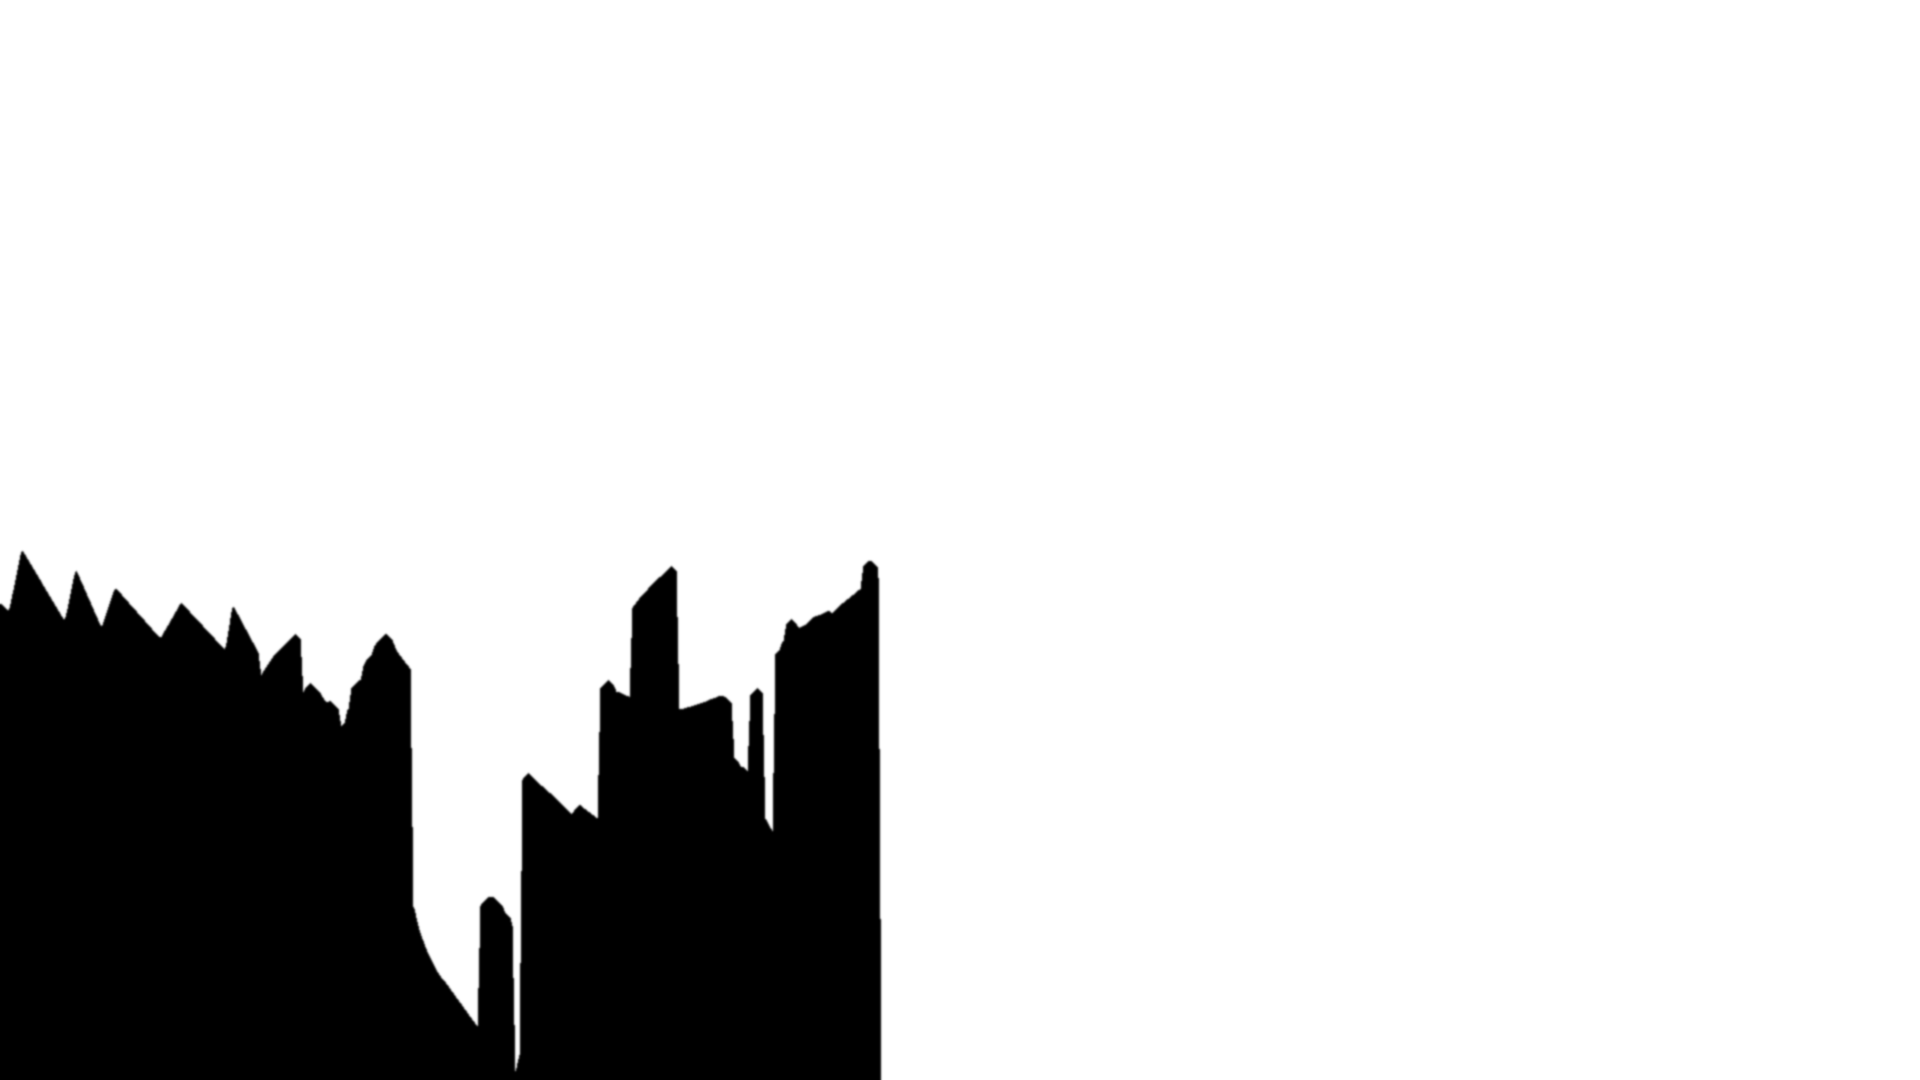
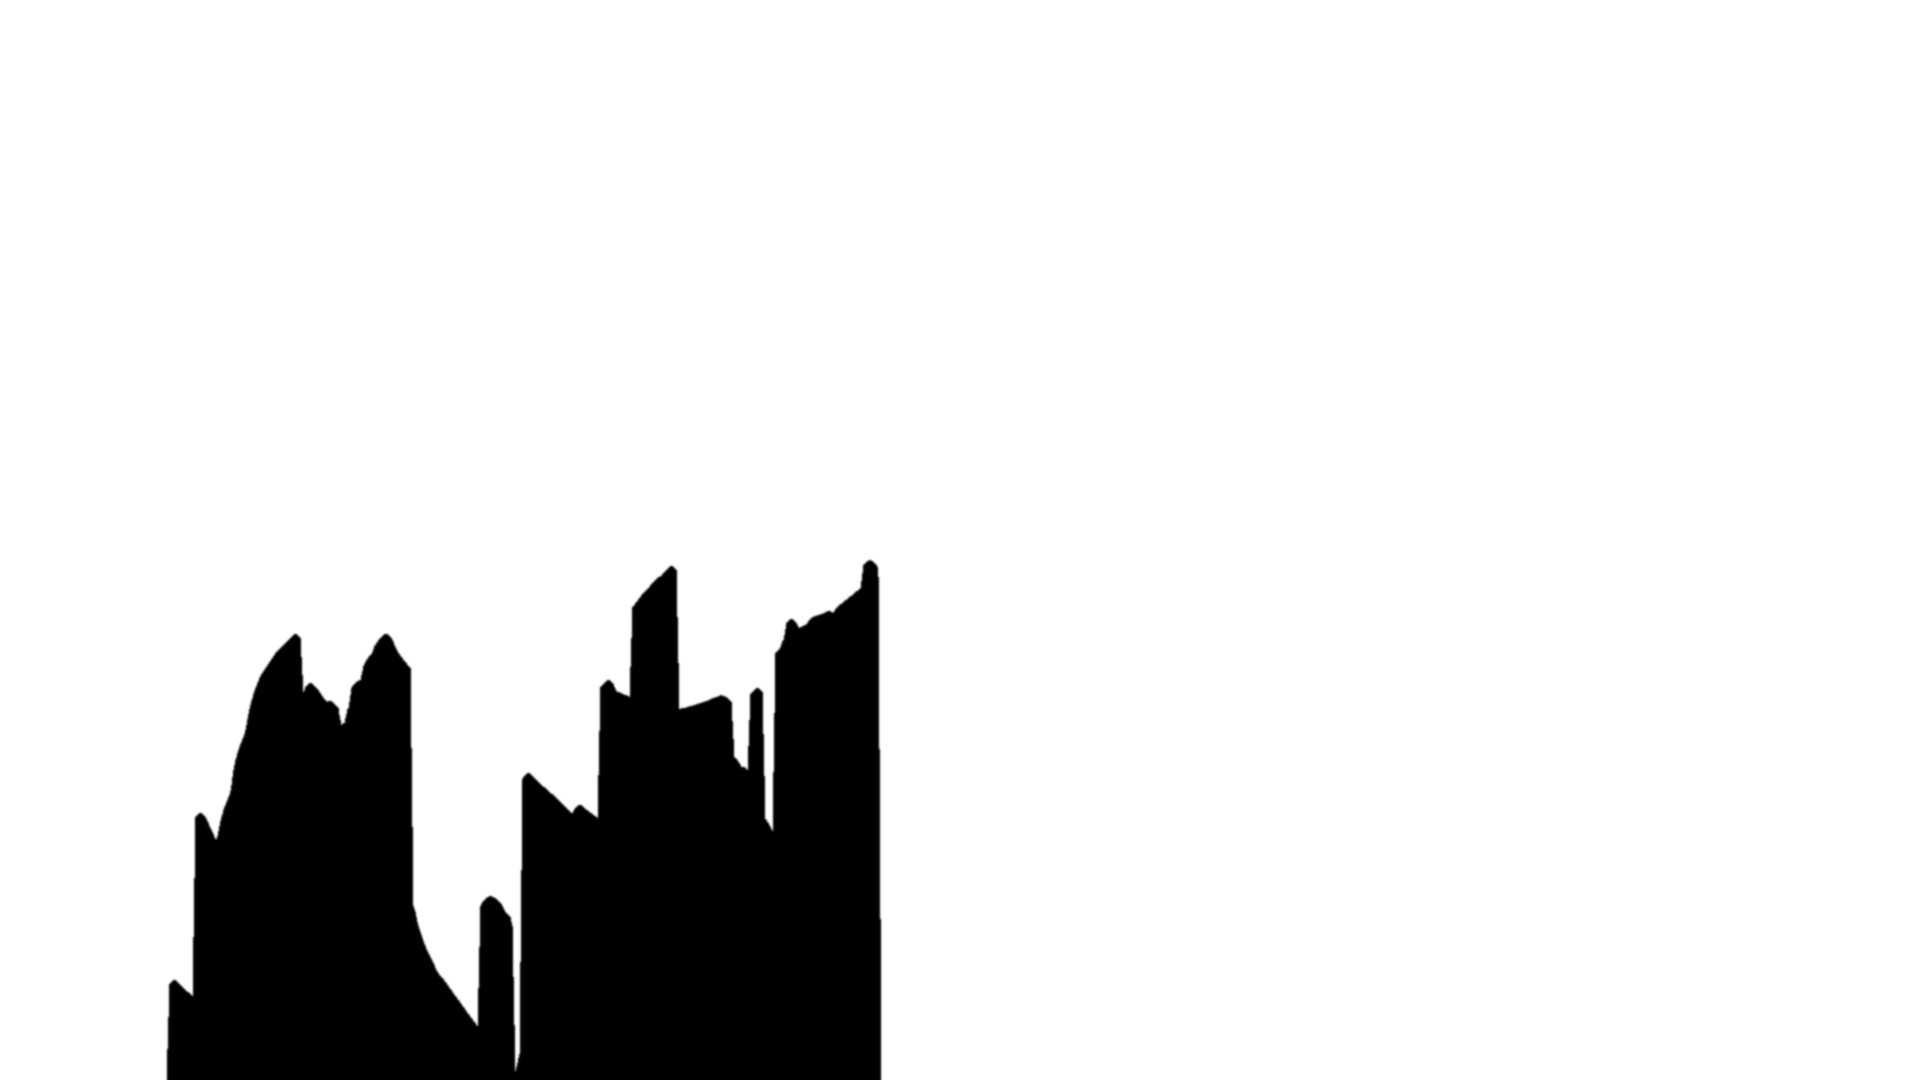
wip(settings skin, still disabled): boundary follows only the real hair outline (no invented hair), portrait shift 0.05
Claude-Session: https://claude.ai/code/session_01Nam5m2bn9ofCCWTGM6fwcN

Changed region(s): [[0.0, 0.5194, 0.1562, 1.0]]

diff --git a/tools/ui/build_system_portrait.py b/tools/ui/build_system_portrait.py
@@ -104,8 +104,7 @@ def zone_of(im, name):
     """白色区域蒙版（v0.14.77 第三版，用户对照原版 #70：白和水的边界就是人物的头发）。
     每一列：从上往下到头发上沿为止是白，头发以下（包括画面左下角）都是水 —— 头发本身画成水色，所以头发和下面的水连成一片。
     · 头发只在头部（y > 560，衣领以下）认，衬衫上的蓝色阴影 / 线条不算；
-    · 立绘左下角头发没画到画面边（x < 250 处只剩几根细发梢，人物左移后正好在屏幕左边缘）：照原版让头发一直延伸到画面左边 ——
-      用 x 250~420 那段真实头发上沿的锯齿形状，往左镜像接出去，整体略往下斜（原版发梢一簇簇朝左上），边界还是"头发"的样子，不是直线。"""
+    · 只用立绘真实的头发轮廓，不往左补（原版 #90：头发左边、画面最左那一条是白 + 大字）。"""
     a = np.asarray(im.convert("RGBA")).astype(np.int32)
     r, g, b, al = a[..., 0], a[..., 1], a[..., 2], a[..., 3]
     h, w = al.shape
@@ -113,24 +112,7 @@ def zone_of(im, name):
     hair[:560] = False
     hair = ndimage.binary_opening(hair, iterations=6)
     top = np.where(hair.any(axis=0), hair.argmax(axis=0), h).astype(np.float64)
-    # 左边延伸：一簇簇朝左上的尖发梢（不对称三角形，宽 30~90px、高 35~85px，固定随机种子），底线从 x=260 处的真实上沿往左略微抬高
-    rng = np.random.default_rng(3)
-    xs = 260
-    base0 = float(top[xs:xs + 20].max()) - 20.0
-    tips = []
-    x = xs
-    while x > -80:
-        wdt = rng.uniform(30, 90)
-        tips.append((x - wdt, x, rng.uniform(35, 85), rng.uniform(0.55, 0.85)))
-        x -= wdt
-    for xx in range(0, xs):
-        base = base0 - 0.18 * (xs - xx)
-        y = base
-        for l, rr, hgt, peak in tips:
-            if l <= xx < rr:
-                u = (rr - xx) / (rr - l)                     # 0 在右端 … 1 在左端；尖端偏左（朝左上）
-                y = base - hgt * (u / peak if u < peak else (1 - u) / (1 - peak))
-        top[xx] = min(top[xx], y) if xx >= xs - 10 else y
+    # （不再往左编造头发：原版头发也没长到脸左边上方；头发左边、画面最左那一条是白 + 大字，和原版 #90 一样）
     top = ndimage.uniform_filter1d(top, 3)
     zone = (np.arange(h)[:, None] < top[None, :]).astype(np.float32)
     zone = Image.fromarray((zone * 255).astype(np.uint8), "L").filter(ImageFilter.GaussianBlur(1.0))

diff --git a/mod/src/Scenes/SettingsSkin.cs b/mod/src/Scenes/SettingsSkin.cs
@@ -871,7 +871,7 @@ public static class SettingsSkin
 		st.PortraitMat.SetShaderParameter("bottom_fade", 0f);   // v0.14.77：头发已经是水色，画布下沿看不出来，不再渐隐（渐隐反而出一条白→蓝的渐变带）
 		st.Portrait.PivotOffset = new Vector2(650f, 977f) * k;                 // 原版模板匹配得到的旋转中心
 		st.Portrait.Rotation = Mathf.DegToRad(rot);
-		// 用户：人物往左移一些，参考原版位置 —— 和原版 #90 的白色轮廓做匹配，整体左移 0.083 屏宽
+		// 用户：人物往左移一些，参考原版位置 —— 整体左移 0.05 屏宽（头发左缘对上原版 #90）
 		st.Portrait.Position = new Vector2((dx - PortraitShiftX) * view.X, dy * view.Y) + new Vector2(0f, (1f - Mathf.Cos(now * 0.6f)) * 3f * k);
 		Vector2 zoff = new(0.5f * st.Portrait.Size.X, view.Y);
 		st.ZoneLayer.PivotOffset = st.Portrait.PivotOffset + zoff;
@@ -1272,7 +1272,7 @@ public static class SettingsSkin
 	}
 
 	private const int DiveFirst = 20, DiveLast = 52;
-	private const float PortraitShiftX = 0.083f;
+	private const float PortraitShiftX = 0.05f;   // 原版 #90：头发左缘约在 0.07~0.10 屏宽
 
 	// (t, 下沉 dy / 屏高, 顺时针角度°, 横移 dx / 屏宽)：t = 原视频时间 − 0.30s。0.367~0.80 是量出来的，0.30 往前外推（人物刚从画面上沿进来）
 	private static readonly (float T, float Dy, float Rot, float Dx)[] DiveKeys =
